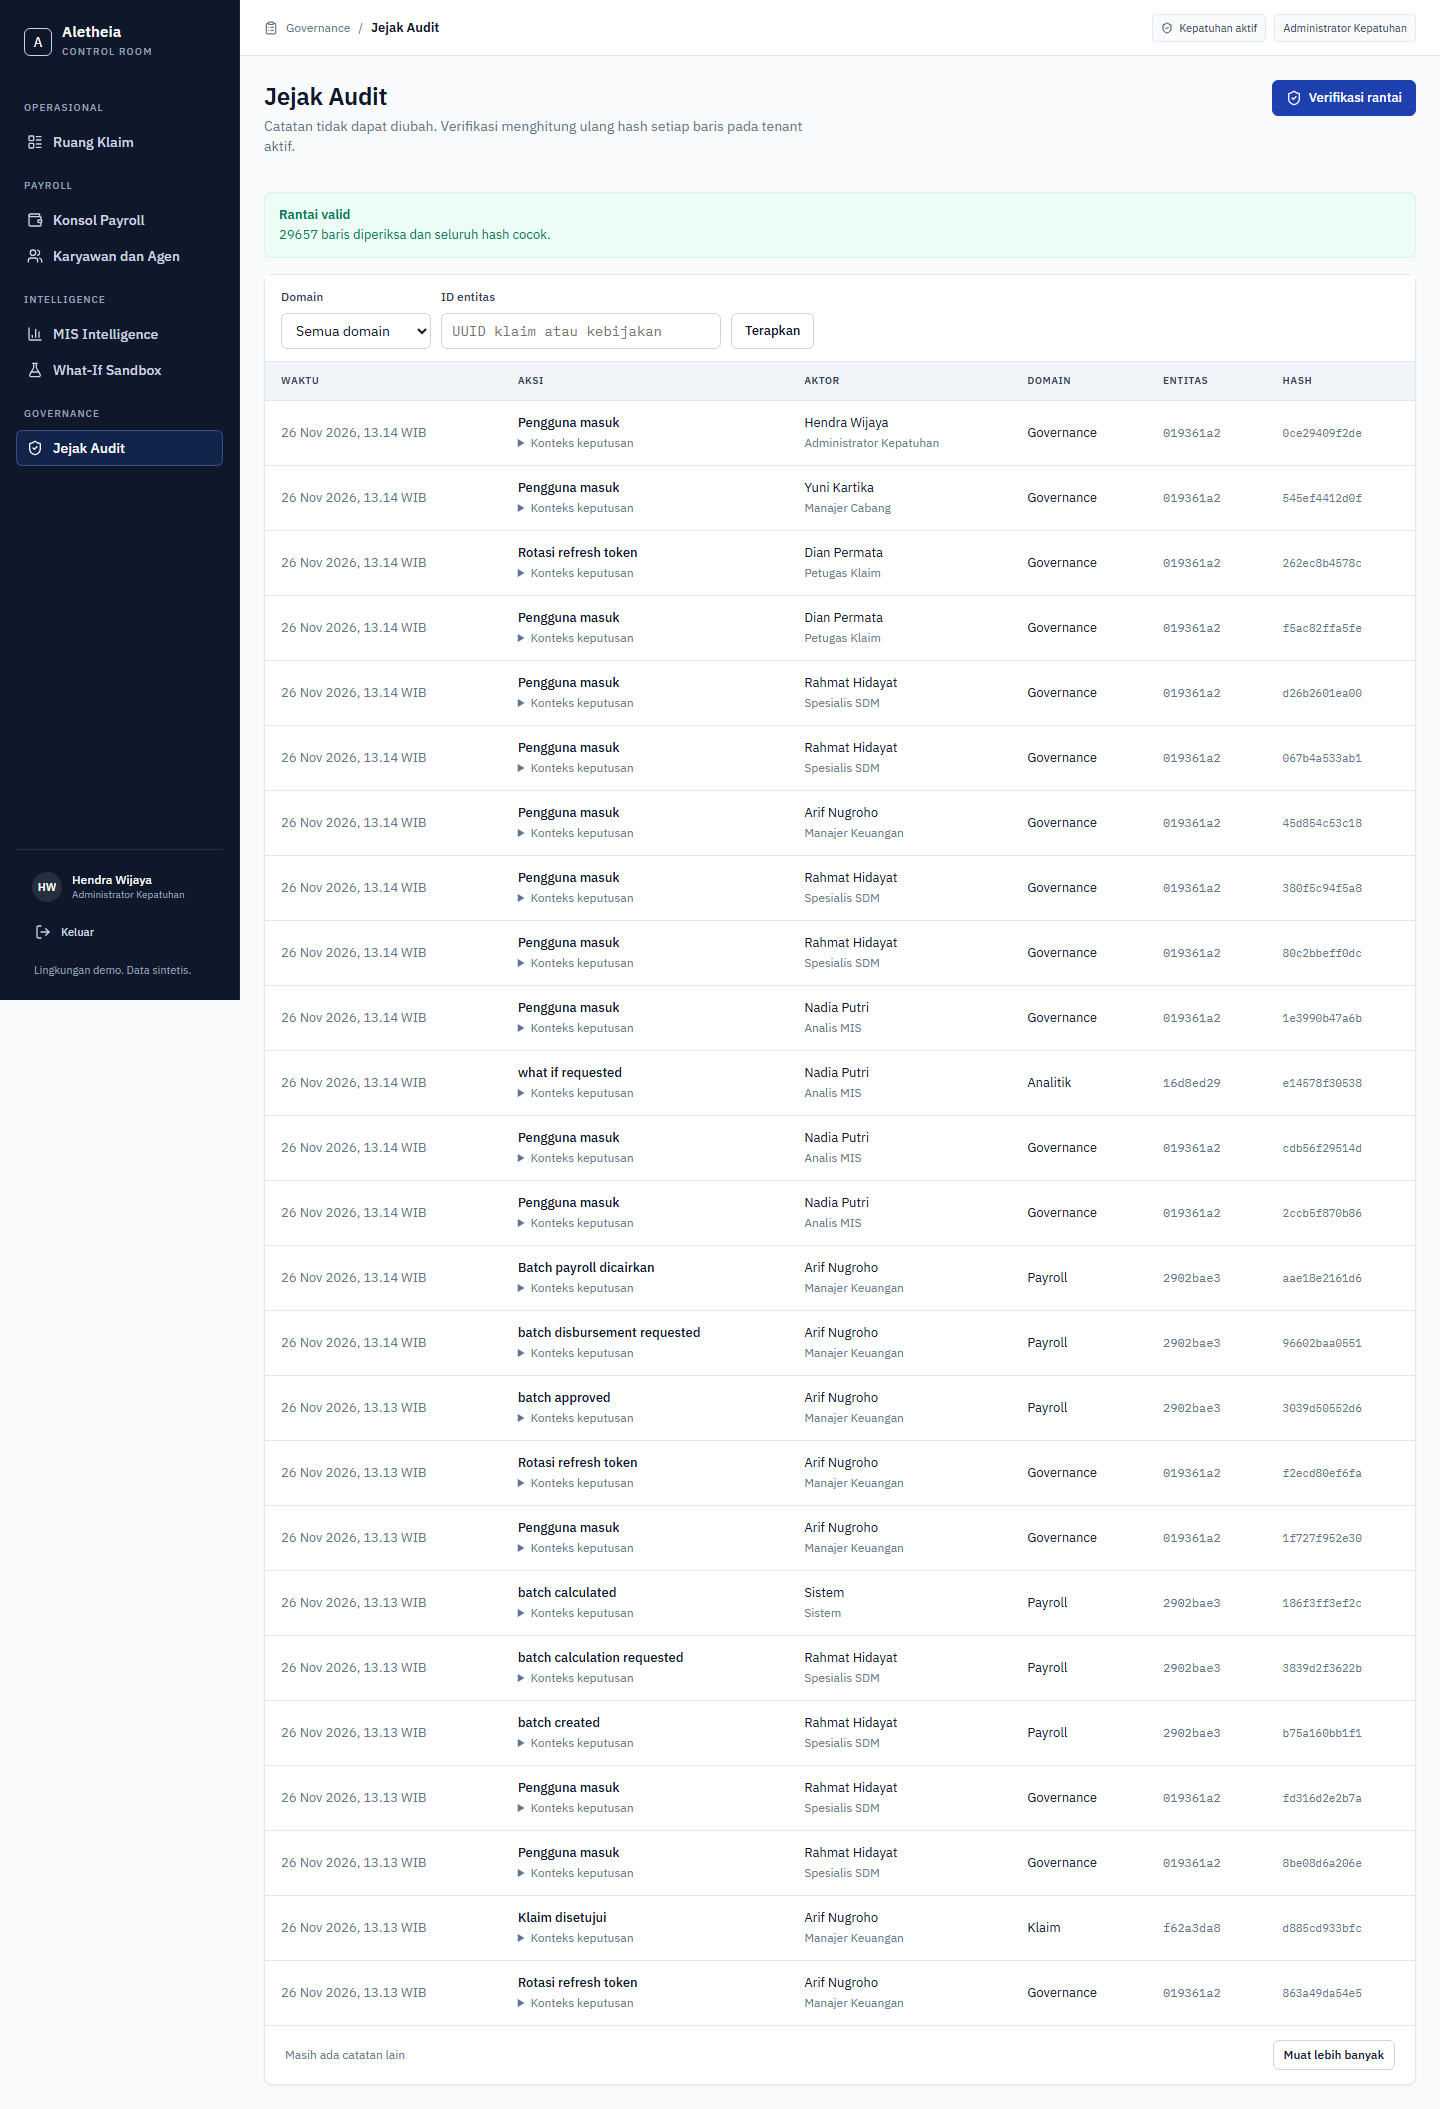
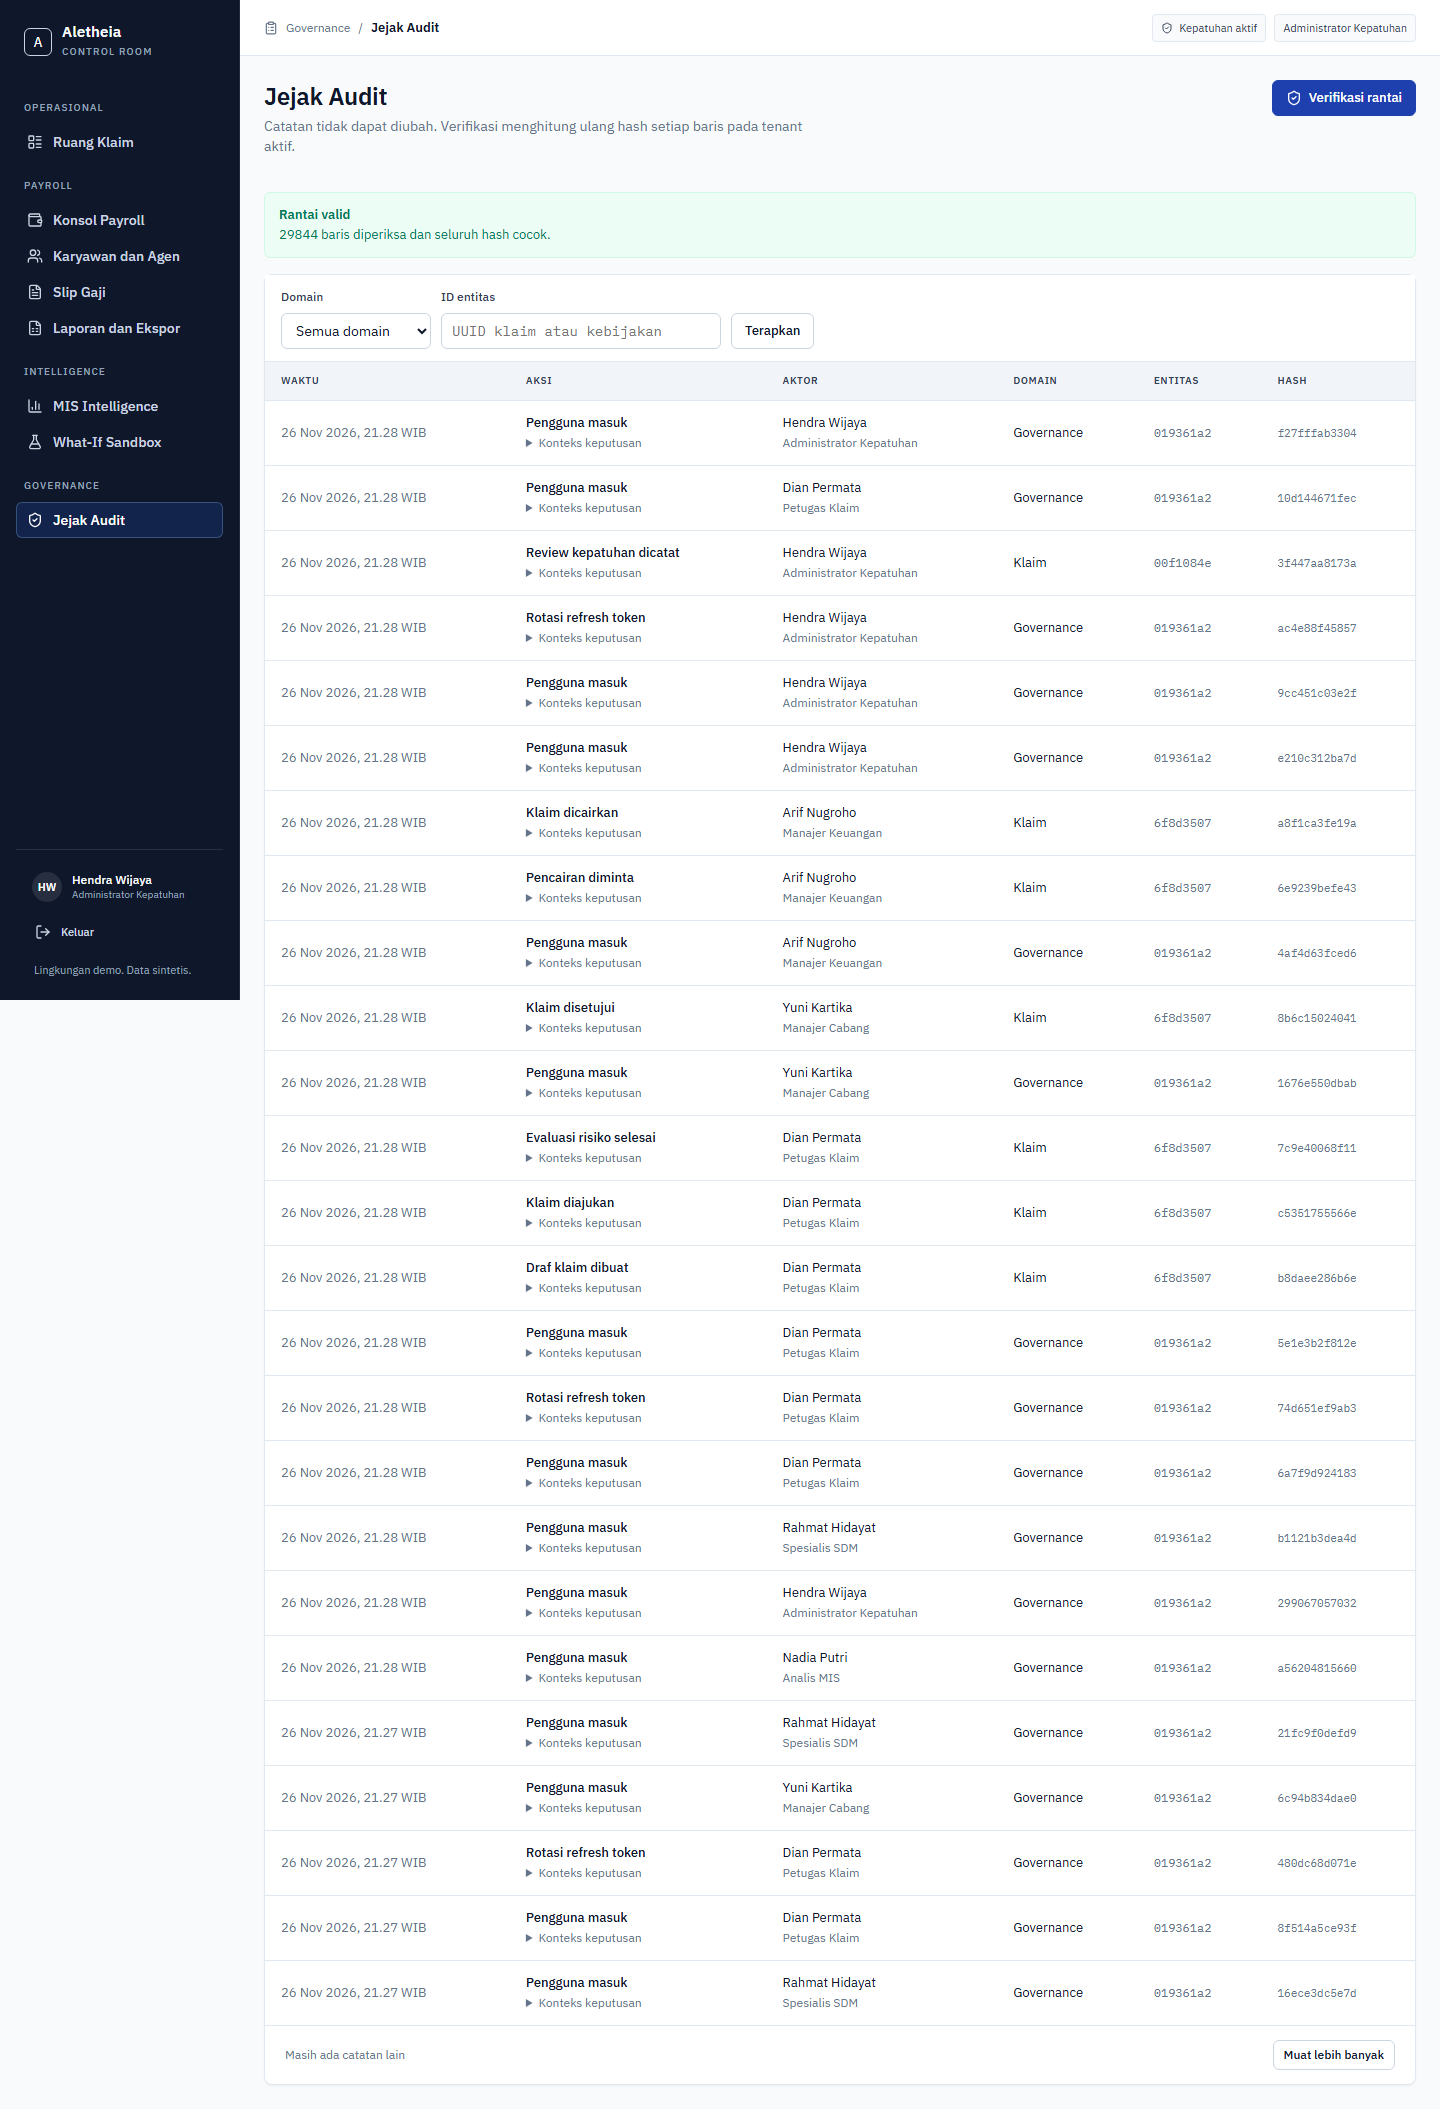
test(e2e): cover payslip center and reports

diff --git a/apps/web/e2e/reports.spec.ts b/apps/web/e2e/reports.spec.ts
@@ -1,0 +1,86 @@
+import { mkdirSync } from "node:fs";
+import { dirname, resolve } from "node:path";
+import { fileURLToPath } from "node:url";
+
+import AxeBuilder from "@axe-core/playwright";
+import { expect, test, type Page } from "@playwright/test";
+
+const HERE = dirname(fileURLToPath(import.meta.url));
+const EVIDENCE = resolve(HERE, "../../../docs/evidence/m6.3");
+mkdirSync(EVIDENCE, { recursive: true });
+
+async function login(page: Page, roleLabel: string, heading: string): Promise<void> {
+  await page.goto("/login");
+  await expect(page.getByRole("heading", { name: "Selamat datang kembali" })).toBeVisible();
+  await page.getByRole("button", { name: new RegExp(roleLabel) }).click();
+  await page.getByRole("button", { name: "Masuk", exact: true }).click();
+  await expect(page.getByRole("heading", { name: heading })).toBeVisible();
+}
+
+async function accessibilityViolations(page: Page) {
+  const results = await new AxeBuilder({ page })
+    .withTags(["wcag2a", "wcag2aa", "wcag21aa", "wcag22aa"])
+    .analyze();
+  return results.violations.filter(
+    (violation) => violation.impact === "critical" || violation.impact === "serious",
+  );
+}
+
+test("HR sees the payslip center and downloads a seeded payslip", async ({ page }) => {
+  await login(page, "Spesialis SDM", "Konsol Payroll");
+  await page.getByRole("link", { name: "Slip Gaji" }).click();
+  await expect(page.getByRole("heading", { name: "Slip Gaji" })).toBeVisible();
+  await expect(page.getByRole("table")).toBeVisible();
+  const payslipRow = page.getByRole("row").filter({ hasText: "Siti Aminah" }).first();
+  await expect(payslipRow).toBeVisible();
+  expect(await accessibilityViolations(page)).toEqual([]);
+  await page.screenshot({ path: `${EVIDENCE}/payslips.png`, fullPage: true });
+
+  const download = page.waitForResponse(
+    (response) =>
+      response.url().includes("/api/v1/payslips/") &&
+      response.url().endsWith("/download") &&
+      response.request().method() === "GET",
+  );
+  await payslipRow.getByRole("button", { name: /Unduh slip/ }).click();
+  expect((await download).status()).toBe(200);
+  await expect(page.getByText(/Tautan unduhan dibuka/)).toBeVisible();
+});
+
+test("HR sees the reports page and downloads the seeded PPh 21 report", async ({ page }) => {
+  await login(page, "Spesialis SDM", "Konsol Payroll");
+  await page.getByRole("link", { name: "Laporan dan Ekspor" }).click();
+  await expect(page.getByRole("heading", { name: "Laporan dan Ekspor" })).toBeVisible();
+  await expect(page.getByRole("table")).toBeVisible();
+  const reportRow = page.getByRole("row").filter({ hasText: "PPh 21 bulanan" }).first();
+  await expect(reportRow).toBeVisible();
+  expect(await accessibilityViolations(page)).toEqual([]);
+  await page.screenshot({ path: `${EVIDENCE}/reports.png`, fullPage: true });
+
+  const download = page.waitForResponse(
+    (response) =>
+      response.url().includes("/api/v1/reports/") &&
+      response.url().endsWith("/download") &&
+      response.request().method() === "GET",
+  );
+  await reportRow.getByRole("button", { name: /Unduh PPh 21 bulanan/ }).click();
+  expect((await download).status()).toBe(200);
+  await expect(page.getByText(/Tautan unduhan dibuka/)).toBeVisible();
+});
+
+test("employee role cannot open the payslip center", async ({ page }) => {
+  await login(page, "Petugas Klaim", "Ruang Klaim");
+  await page.goto("/payslips");
+  await expect(page.getByRole("heading", { name: "Akses terbatas" })).toBeVisible();
+});
+
+test("mobile payslip list remains usable", async ({ page }) => {
+  await page.setViewportSize({ width: 390, height: 844 });
+  await login(page, "Spesialis SDM", "Konsol Payroll");
+  await page.getByRole("button", { name: "Buka navigasi" }).click();
+  await page.getByRole("link", { name: "Slip Gaji" }).click();
+  await expect(page.getByRole("heading", { name: "Slip Gaji" })).toBeVisible();
+  await expect(page.getByRole("table")).toBeVisible();
+  expect(await accessibilityViolations(page)).toEqual([]);
+  await page.screenshot({ path: `${EVIDENCE}/payslips-mobile.png`, fullPage: true });
+});

diff --git a/apps/web/e2e/claims.spec.ts b/apps/web/e2e/claims.spec.ts
@@ -1,12 +1,15 @@
 import { mkdirSync } from "node:fs";
-import { resolve } from "node:path";
+import { dirname, resolve } from "node:path";
+import { fileURLToPath } from "node:url";
 
 import AxeBuilder from "@axe-core/playwright";
 import { expect, test, type Page } from "@playwright/test";
 
 const PASSWORD = "AletheiaDemo!2026";
 const API_URL = process.env.PLAYWRIGHT_API_URL ?? "http://127.0.0.1:8787";
-const EVIDENCE = resolve("../../docs/evidence/m2.3");
+const HERE = dirname(fileURLToPath(import.meta.url));
+const EVIDENCE = resolve(HERE, "../../../docs/evidence/m2.3");
+const IDENTITY_CARD = resolve(HERE, "fixtures/identity-card.pdf");
 mkdirSync(EVIDENCE, { recursive: true });
 
 async function login(page: Page, roleLabel: string): Promise<void> {
@@ -62,9 +65,9 @@ test("claim flows from draft to disbursement", async ({ page }) => {
   await page.getByLabel(/Rekening penerima/).fill(`8800${suffix}3344`);
   await page.getByLabel(/Nominal diajukan/).fill("4250000.00");
 
-  await page.getByLabel("Unggah Kartu identitas").setInputFiles("e2e/fixtures/identity-card.pdf");
+  await page.getByLabel("Unggah Kartu identitas").setInputFiles(IDENTITY_CARD);
   await expect(page.getByText(/demo\/identity_card/)).toBeVisible();
-  await page.getByLabel("Unggah Tagihan medis").setInputFiles("e2e/fixtures/identity-card.pdf");
+  await page.getByLabel("Unggah Tagihan medis").setInputFiles(IDENTITY_CARD);
   await expect(page.getByText(/demo\/medical_invoice/)).toBeVisible();
 
   await page.getByRole("button", { name: "Simpan draf" }).click();
